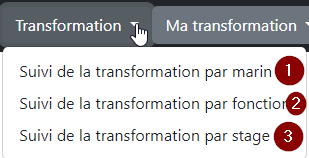
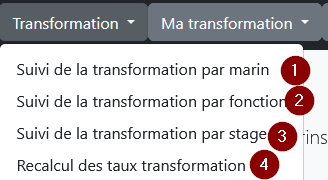
maj doc transformation suite ajout menu recalcul tx transfo

diff --git a/app/resources/docs/1.0/transformation.md b/app/resources/docs/1.0/transformation.md
@@ -8,6 +8,7 @@
    - [Stages](#stages)
 - [Suivi de la transformation par fonction](#suivi-par-fonction)
 - [Suivi de la transformation par stage](#suivi-par-stage)
+- [Recalcul des taux de transformation](#recalcul-transfo)
 - [Ma transformation](#ma-transformation)
 
 <img src="{{ url(asset('docs/images/' . env('DOC_VERSION') . '/transformation/menu_transformation.png' )) }}" width=400px>
@@ -16,6 +17,7 @@ Ce menu permet d’accéder :
 1. à la liste des marins en cours de transformation. Un lien vers son livret de transformation permet la validation d’objectifs.
 2. à la liste des fonctions. Un lien vers le livret associé à la fonction permet la validation collective d’objectifs.
 3. à la liste des stages. Permet de consulter la liste des marins en attente de ce stage ou ceux l’ayant déjà validé.
+4. au calcul des taux de transformation
 
 <a name="suivi-par-marin">
 ## Suivi de la transformation par marin
@@ -121,6 +123,15 @@ En cliquant sur le bouton « Situation des marins pour ce stage » (1), vous aff
 <img src="{{ url(asset('docs/images/' . env('DOC_VERSION') . '/transformation/situation_marin_pour_stage.png' )) }}" width=600px> 
  
 ** Remarque : ** pour exporter ce tableau sous Excel, sélectionner toutes les cases voulues en maintenant enfoncée la touche « Ctrl » de votre clavier puis copier et coller.
+
+<a name="recalcul-transfo">
+## Recalcul des taux de transformation
+Cette page permet de relancer le calcul du taux de transformation pour tous les marins non archivés. Cela peut être nécessaire lors de l'évolution des parcours (modification d'un coefficient d'un sous-objectif ou ajout d'un tâche dans une fonction par exemple).
+<img src="{{ url(asset('docs/images/' . env('DOC_VERSION') . '/transformation/recalcul_transfo.png' )) }}" width=400px>
+
+En cliquant sur le bouton « Lancer le calcul » (1), tous les taux de transformation de tous les marins sont recalculés.
+
+> {info} ** Remarque : ** Plus il y a de marins plus le calcul peut être long.
 
 
 <a name="ma-transformation">
